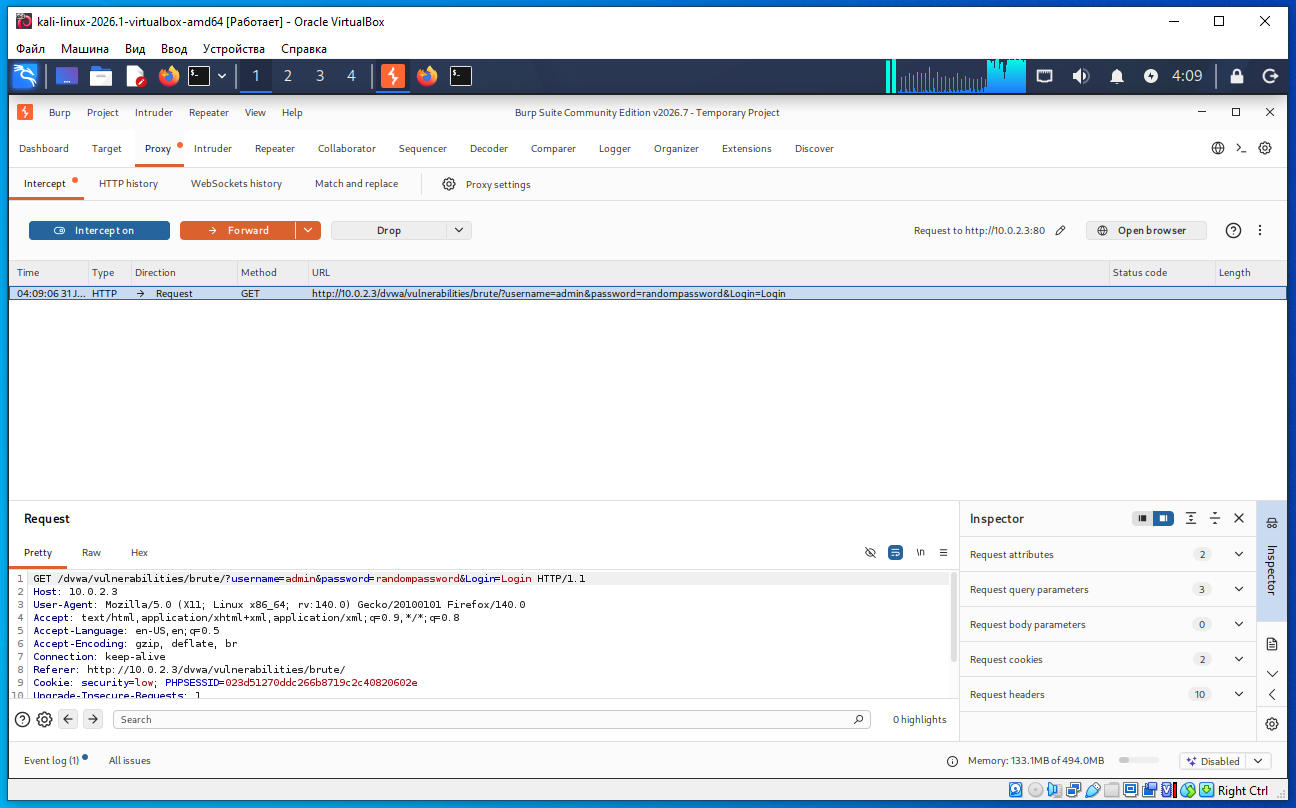
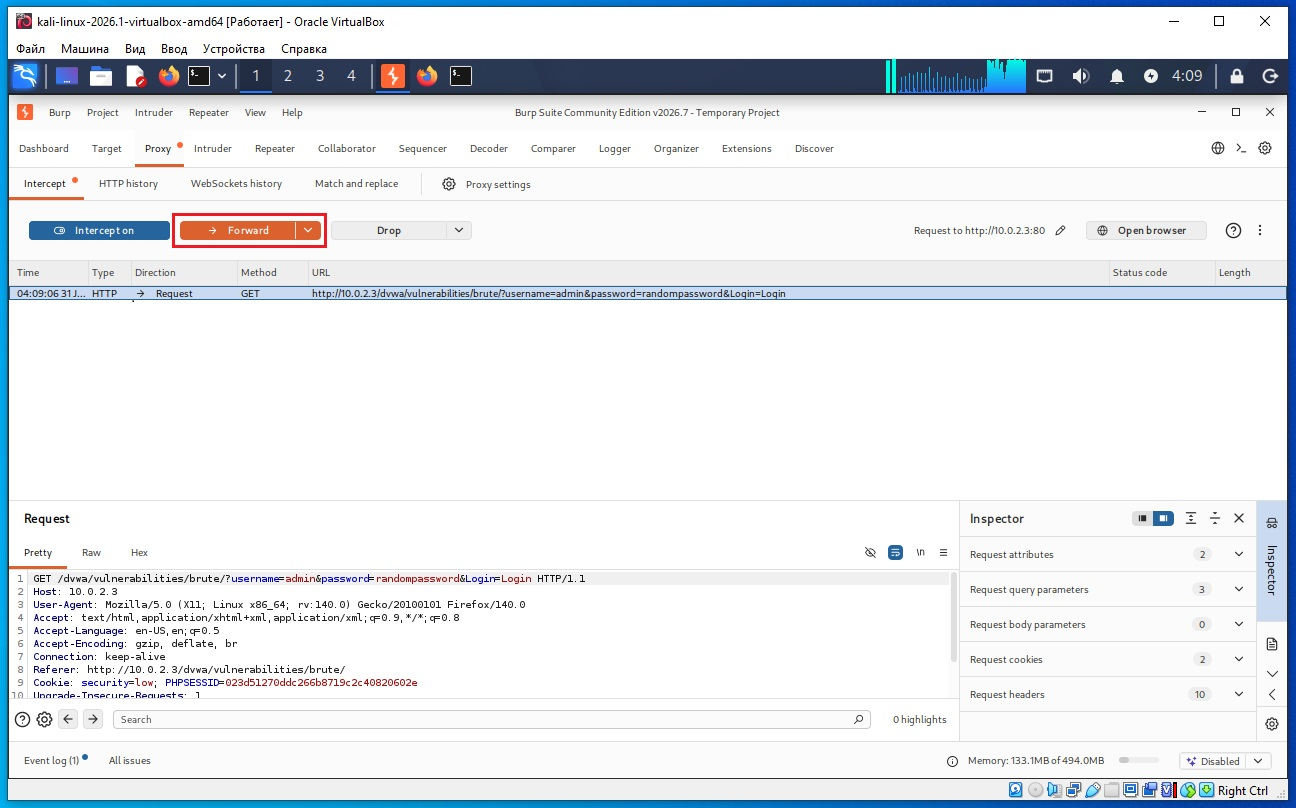
updated

diff --git a/08.005-metasp2p2/metasp2_003.html b/08.005-metasp2p2/metasp2_003.html
@@ -383,6 +383,11 @@ http://10.0.0.3/dvwa/
 <img src="./pic003/pic24.jpg" width=1400 alt="kali linux burpsuite">
 
 <p>
+Теперь получается такая логика - запрос от браузера пришел в Burpsuite, процесс остановился, дальше нам нужно этот запрос отправить далее по цепочке к серверу - то есть (как на скриншоте) нажать кнопку Forward.
+</p>
+
+
+<p>
 Для дальнейшего взлома нам важно в выводе эти поля:
 </p>
 
